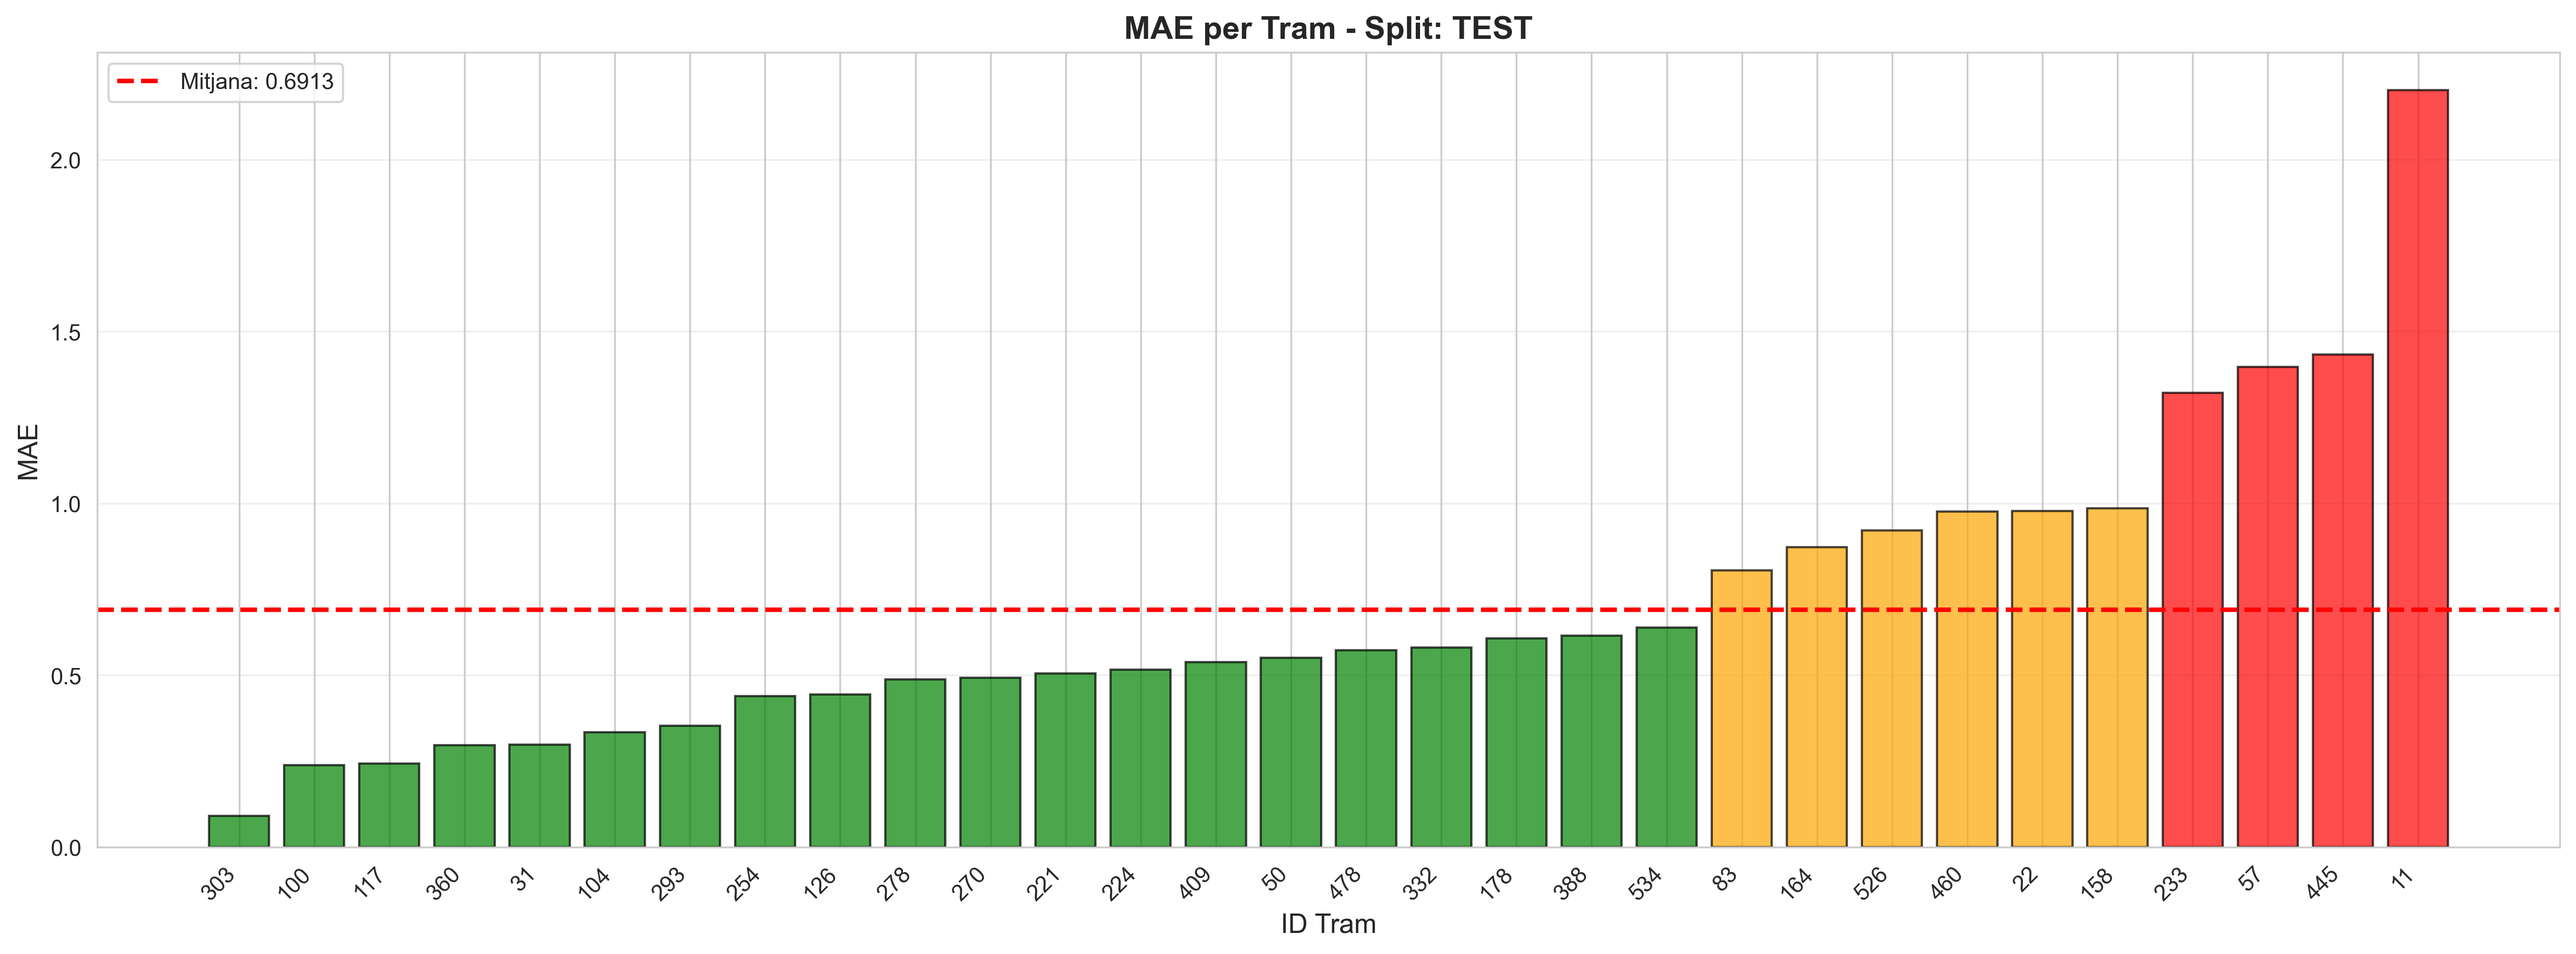
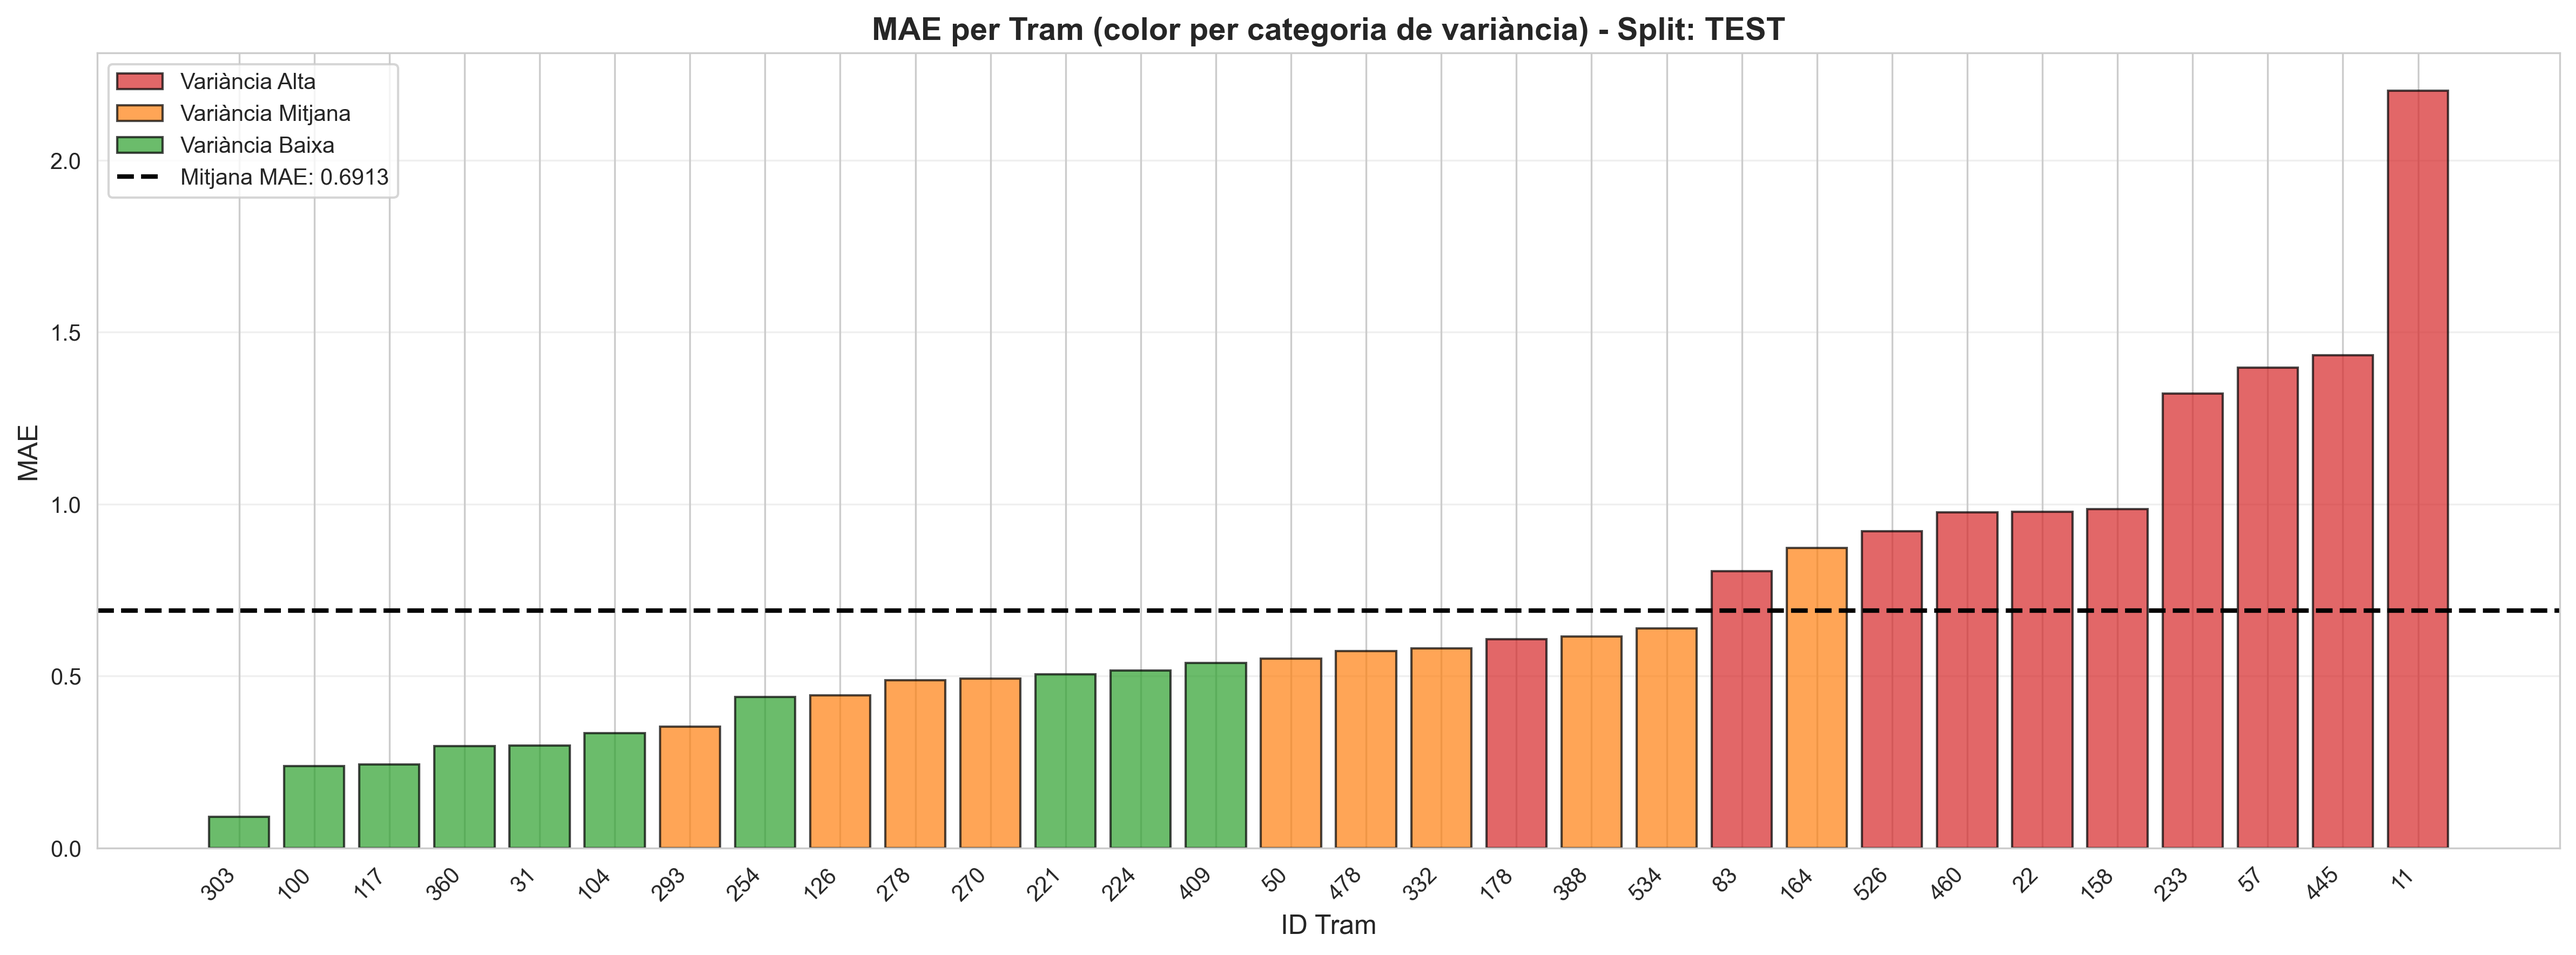
arima results

Changed region(s): [[0.0312, 0.0933, 0.9685, 0.9021], [0.3437, 0.0, 0.6874, 0.0622], [0.0312, 0.0622, 0.1562, 0.2178]]

diff --git a/src/arima/evaluate_arima_baseline.py b/src/arima/evaluate_arima_baseline.py
@@ -22,6 +22,7 @@ warnings.filterwarnings('ignore')
 
 import matplotlib.pyplot as plt
 import seaborn as sns
+import openpyxl
 
 from statsmodels.tsa.arima.model import ARIMA
 from src.data_prep.prepare_time_splits import (
@@ -36,6 +37,7 @@ DATA_PATH = "data/processed/dataset_imputed_clean.parquet"
 MODELS_DIR = "models/arima"
 OUTPUT_METRICS = "models/arima/evaluation_metrics.parquet"
 OUTPUT_PLOTS_DIR = "reports/arima"
+VARIANCE_CLASSIFICATION_PATH = "data/processed/trams_variancia_classificats.xlsx"
 
 
 def load_model_params(tram_id: int, models_dir: str = MODELS_DIR) -> Dict:
@@ -113,7 +115,7 @@ def calculate_metrics(y_true: np.ndarray, y_pred: np.ndarray) -> Dict:
     """
     mae = np.mean(np.abs(y_true - y_pred))
     rmse = np.sqrt(np.mean((y_true - y_pred) ** 2))
-    mape = np.mean(np.abs((y_true - y_pred) / (y_true + 1e-10))) * 100  # +epsilon per evitar divisió per 0
+    mape = np.mean(np.abs((y_true - y_pred) / (y_true + 1e-10))) * 100
     
     return {
         'mae': mae,
@@ -248,7 +250,7 @@ def evaluate_all_models(
         print(f"  Q3: {successful_df['rmse'].quantile(0.75):.4f}")
         print(f"  Max: {successful_df['rmse'].max():.4f}")
     
-    print("\n✅ Avaluació completada!")
+    print("\nAvaluació completada!")
     
     return results_df
 
@@ -273,6 +275,16 @@ def create_visualizations(metrics_df: pl.DataFrame, split: str = 'test'):
     
     # Filtrar només models correctes
     successful_df = metrics_df.filter(pl.col('success') == True).to_pandas()
+    
+    # Carregar classificació de variància
+    variance_df = pl.read_excel(VARIANCE_CLASSIFICATION_PATH)
+    variance_dict = dict(zip(
+        variance_df['idTram'].to_list(),
+        variance_df['categoria_variancia'].to_list()
+    ))
+    
+    # Afegir categoria de variància al DataFrame de mètriques
+    successful_df['categoria_variancia'] = successful_df['idTram'].map(variance_dict)
     
     # Configurar estil
     sns.set_style("whitegrid")
@@ -314,36 +326,54 @@ def create_visualizations(metrics_df: pl.DataFrame, split: str = 'test'):
     # Guardar figura
     output_path = f"{OUTPUT_PLOTS_DIR}/metrics_distribution_{split}.png"
     plt.savefig(output_path, dpi=300, bbox_inches='tight')
-    print(f"\n📊 Visualització guardada: {output_path}")
+    print(f"\nVisualització guardada: {output_path}")
     
     plt.close()
     
-    # Crear gràfic addicional: MAE per tram (barplot)
+    # Crear gràfic addicional: MAE per tram (barplot amb colors per categoria de variància)
     fig, ax = plt.subplots(figsize=(16, 6))
     
+    # Ordenar per MAE
     successful_df_sorted = successful_df.sort_values('mae')
-    colors = ['green' if mae < mae_mean else 'orange' if mae < mae_mean * 1.5 else 'red' 
-              for mae in successful_df_sorted['mae']]
+    
+    # Definir colors per categoria de variància
+    color_map = {
+        'alta': '#d62728',      # Vermell
+        'mitjana': '#ff7f0e',   # Taronja
+        'baixa': '#2ca02c'      # Verd
+    }
+    
+    # Assignar colors segons la categoria de variància
+    colors = [color_map.get(cat, 'gray') for cat in successful_df_sorted['categoria_variancia']]
     
     ax.bar(range(len(successful_df_sorted)), successful_df_sorted['mae'], color=colors, alpha=0.7, edgecolor='black')
     ax.set_xticks(range(len(successful_df_sorted)))
     ax.set_xticklabels(successful_df_sorted['idTram'], rotation=45, ha='right')
     ax.set_xlabel('ID Tram', fontsize=12)
     ax.set_ylabel('MAE', fontsize=12)
-    ax.set_title(f'MAE per Tram - Split: {split.upper()}', fontsize=14, fontweight='bold')
-    ax.axhline(mae_mean, color='red', linestyle='--', linewidth=2, label=f'Mitjana: {mae_mean:.4f}')
+    ax.set_title(f'MAE per Tram (color per categoria de variància) - Split: {split.upper()}', fontsize=14, fontweight='bold')
+    ax.axhline(mae_mean, color='black', linestyle='--', linewidth=2, label=f'Mitjana: {mae_mean:.4f}')
     ax.grid(True, alpha=0.3, axis='y')
-    ax.legend()
+    
+    # Crear llegenda personalitzada per les categories
+    from matplotlib.patches import Patch
+    legend_elements = [
+        Patch(facecolor=color_map['alta'], edgecolor='black', alpha=0.7, label='Variància Alta'),
+        Patch(facecolor=color_map['mitjana'], edgecolor='black', alpha=0.7, label='Variància Mitjana'),
+        Patch(facecolor=color_map['baixa'], edgecolor='black', alpha=0.7, label='Variància Baixa'),
+        plt.Line2D([0], [0], color='black', linestyle='--', linewidth=2, label=f'Mitjana MAE: {mae_mean:.4f}')
+    ]
+    ax.legend(handles=legend_elements, loc='upper left')
     
     plt.tight_layout()
     
     output_path = f"{OUTPUT_PLOTS_DIR}/mae_per_tram_{split}.png"
     plt.savefig(output_path, dpi=300, bbox_inches='tight')
-    print(f"📊 Visualització guardada: {output_path}")
+    print(f"Visualització guardada: {output_path}")
     
     plt.close()
     
-    print("\n✅ Visualitzacions completades!")
+    print("\nVisualitzacions completades!")
 
 
 def main():
@@ -360,7 +390,7 @@ def main():
     # Crear visualitzacions
     create_visualizations(metrics_test, split='test')
     
-    # També podem avaluar sobre validació si volem
+    # Avaluem sobre Val
     print("\n\n" + "=" * 60)
     print("Avaluant models sobre el conjunt de VALIDACIÓ...")
     metrics_val = evaluate_all_models(

diff --git a/src/arima/train_arima_baseline.py b/src/arima/train_arima_baseline.py
@@ -199,7 +199,7 @@ def train_all_models(
     print(f"  Train: {splits_info['train_start']} → {splits_info['train_end']}")
     print(f"  Val:   {splits_info['val_start']} → {splits_info['val_end']}")
     print(f"  Test:  {splits_info['test_start']} → {splits_info['test_end']}")
-    print("\n⚠  Utilitzant només dades de TRAIN per entrenar els models")
+    print("\nUtilitzant només dades de TRAIN per entrenar els models")
     
     # Entrenar models
     results = []
@@ -220,7 +220,7 @@ def train_all_models(
         if result['success'] and save_models:
             model_path = save_model(result['model'], tram_id, order)
             result['model_path'] = model_path
-            print(f"  💾 Model guardat: {model_path}")
+            print(f"Model guardat: {model_path}")
         else:
             result['model_path'] = None
         
@@ -239,7 +239,7 @@ def train_all_models(
     # Guardar mètriques
     Path(MODELS_DIR).mkdir(parents=True, exist_ok=True)
     results_df.write_parquet(OUTPUT_METRICS)
-    print(f"\n💾 Mètriques guardades: {OUTPUT_METRICS}")
+    print(f"\nMètriques guardades: {OUTPUT_METRICS}")
     
     # Resum
     print("\n" + "=" * 60)

diff --git a/src/data_prep/prepare_time_splits.py b/src/data_prep/prepare_time_splits.py
@@ -213,7 +213,7 @@ def print_splits_summary(splits_info: Dict[str, datetime]) -> None:
 
 def main():
     """
-    Exemple d'ús del mòdul.
+    Ús del mòdul.
     """
     # Carregar dades
     DATA_PATH = "data/processed/dataset_imputed_clean.parquet"
@@ -228,7 +228,7 @@ def main():
     print(f"\nPreparant dades per {len(SELECTED_TRAMS)} trams...")
     data = get_all_trams_data(df, SELECTED_TRAMS)
     
-    # Exemple: obtenir dades d'un tram
+    # Obtenim dades d'un tram
     print(f"\nExemple - Tram {SELECTED_TRAMS[0]}:")
     for split in ['train', 'val', 'test']:
         series = data['get_tram_series'](SELECTED_TRAMS[0], split)
@@ -244,7 +244,7 @@ def main():
         total = len(train) + len(val) + len(test)
         print(f"  Tram {tram_id:3d}: Train={len(train):6d}, Val={len(val):5d}, Test={len(test):5d}, Total={total:6d}")
     
-    print(f"\n✅ Preparació completada!")
+    print(f"\nPreparació completada!")
 
 
 if __name__ == "__main__":
